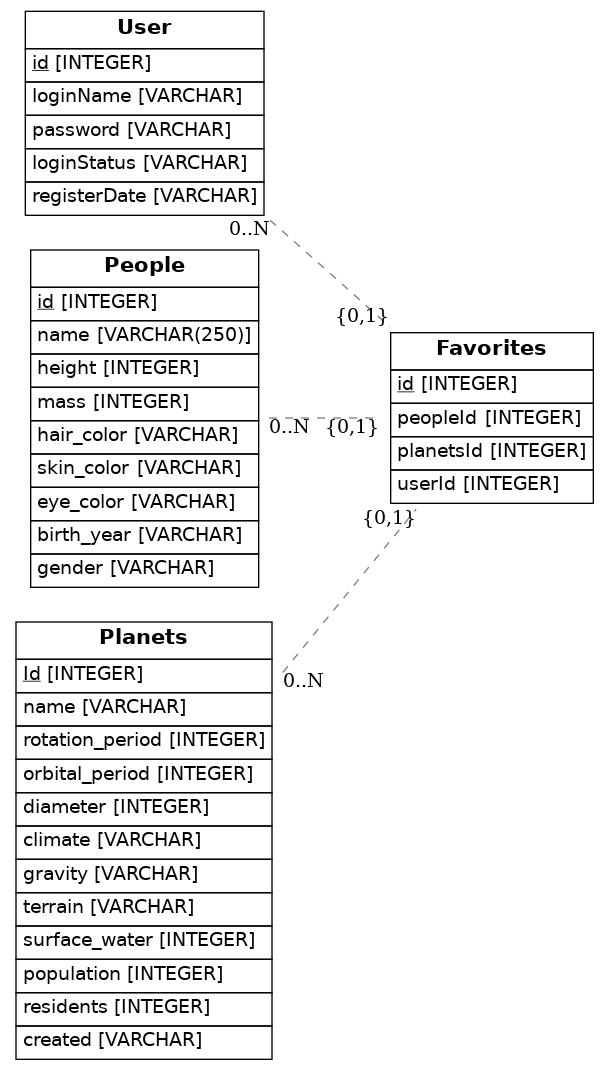
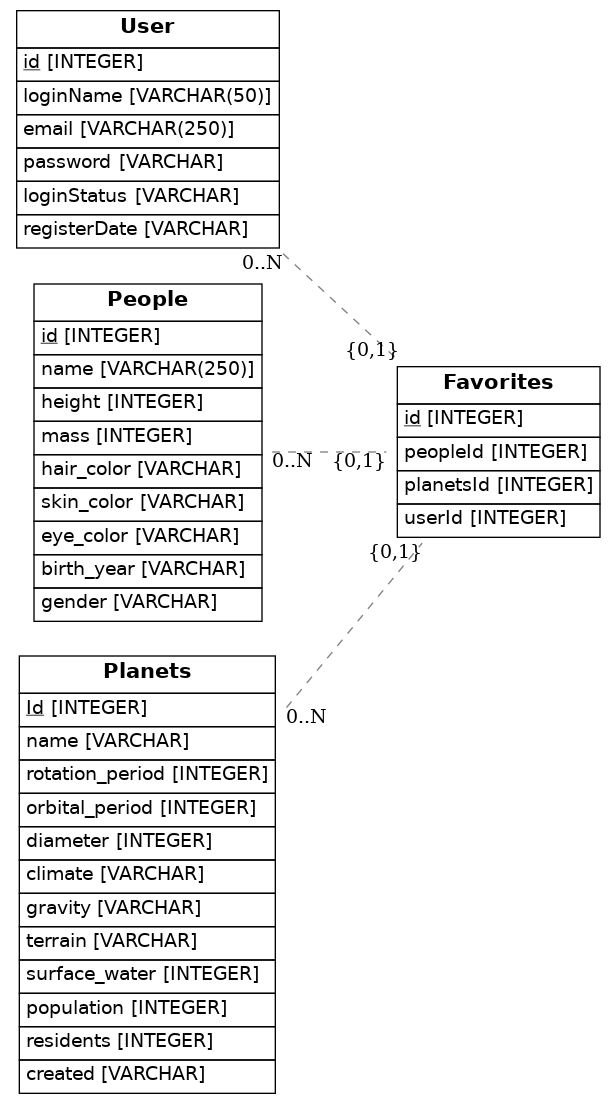
comments

Changed region(s): [[0.0, 0.0, 0.9984, 1.0]]

diff --git a/src/models_Ivan_Idea.py b/src/models_Ivan_Idea.py
@@ -1,0 +1,151 @@
+#*******************************************************************************#
+# Fecha Creación:  24 Marzo 2021.                                               #
+# Autor:           Iván Fonseca Castro                                          #
+#                                                                               #
+# Descripción:     Modelo para las entidades que componen el Proyecto del       #
+#                  Star Wars Blog                                               #
+#*******************************************************************************#
+
+import os
+import sys
+import enum
+from sqlalchemy import Column, ForeignKey, Integer, String, Float, Date, Enum
+from sqlalchemy.ext.declarative import declarative_base
+from sqlalchemy.orm import relationship
+from sqlalchemy import create_engine
+from eralchemy import render_er
+
+Base = declarative_base()
+
+# Definición de Tipo de Dato Personalizado para identificar las entidades principales
+class EntityTypeEnum(enum.Enum):
+    person = 1
+    planet = 2
+    vehicle = 3
+
+# INICIO - Definición de Tablas para Cátalogos
+# [hair_color_cat] : Esta entidad permitirá almacenar un Cátalogo de Color de Pelo
+class HairColorCat(Base):
+    __tablename__ = 'hair_color_cat'
+    id = Column(Integer, primary_key=True)
+    name = Column(String(20), nullable=False)
+
+# [skin_color_cat] : Esta entidad permitirá almacenar un Cátalogo de Color de Piel
+class SkinColorCat(Base):
+    __tablename__ = 'skin_color_cat'
+    id = Column(Integer, primary_key=True)
+    name = Column(String(20), nullable=False)
+
+# [eye_color_cat] : Esta entidad permitirá almacenar un Cátalogo de Color de Ojos
+class EyeColorCat(Base):
+    __tablename__ = 'eye_color_cat'
+    id = Column(Integer, primary_key=True)
+    name = Column(String(20), nullable=False)
+
+# [gender_cat] : Esta entidad permitirá almacenar un Cátalogo de Generos
+class GenderCat(Base):
+    __tablename__ = 'gender_cat'
+    id = Column(Integer, primary_key=True)
+    name = Column(String(20), nullable=False)
+
+# [climate_cat] : Esta entidad permitirá almacenar un Cátalogo de Climas
+class ClimateCat(Base):
+    __tablename__ = 'climate_cat'
+    id = Column(Integer, primary_key=True)
+    name = Column(String(20), nullable=False)
+
+# [terrain_cat] : Esta entidad permitirá almacenar un Cátalogo de Terrenos
+class TerrainCat(Base):
+    __tablename__ = 'terrain_cat'
+    id = Column(Integer, primary_key=True)
+    name = Column(String(20), nullable=False)
+
+# [vehicle_class_cat] : Esta entidad permitirá almacenar un Cátalogo de Clases de Vehiculos
+class VehicleClassCat(Base):
+    __tablename__ = 'vehicle_class_cat'
+    id = Column(Integer, primary_key=True)
+    name = Column(String(100), nullable=False)
+# FIN - Definición de Tablas para Cátalogos
+
+# Definición de Entidades Principales
+# [user] : Esta entidad permitirá almacenar los usuarios.
+class User(Base):
+    __tablename__ = 'user'
+    id = Column(Integer, primary_key=True)
+    name = Column(String(100), nullable=False)
+    first_surname = Column(String(100), nullable=False)
+    second_surname = Column(String(100))
+    email = Column(String(250), unique=True)
+    user_name = Column(String(50), unique=True)
+    password = Column(String(50))
+    user_image = Column(String(2000))
+    gender_cat_id = Column(Integer, ForeignKey('gender_cat.id'))
+    gender_cat = relationship(GenderCat)
+
+# [people] : Esta entidad permitirá almacenar los personas o personajes.
+class People(Base):
+    __tablename__ = 'people'
+    id = Column(Integer, primary_key=True)
+    name = Column(String(250), nullable=False)
+    birth_year = Column(Date)
+    height = Column(Integer)
+    mass = Column(Integer)
+    people_image = Column(String(2000))
+    hair_color_cat_id = Column(Integer, ForeignKey('hair_color_cat.id'))
+    hair_color_cat = relationship(HairColorCat)
+    skin_color_cat_id = Column(Integer, ForeignKey('skin_color_cat.id'))
+    skin_color_cat = relationship(SkinColorCat)
+    eye_color_cat_id = Column(Integer, ForeignKey('eye_color_cat.id'))
+    eye_color_cat = relationship(EyeColorCat)
+    gender_cat_id = Column(Integer, ForeignKey('gender_cat.id'))
+    gender_cat = relationship(GenderCat)
+
+# [planet] : Esta entidad permitirá almacenar los planetas.
+class Planet(Base):
+    __tablename__ = 'planet'
+    id = Column(Integer, primary_key=True)
+    name = Column(String(250), nullable=False)
+    rotation_period = Column(Integer)
+    orbital_period = Column(Integer) 
+    diameter = Column(Integer)
+    gravity = Column(String(50))
+    surface_water = Column(Integer)
+    population = Column(Integer)
+    planet_image = Column(String(2000))
+    climate_cat_id = Column(Integer, ForeignKey('climate_cat.id'))
+    climate_cat = relationship(ClimateCat)
+    terrain_cat_id = Column(Integer, ForeignKey('terrain_cat.id'))
+    terrain_cat = relationship(TerrainCat)
+
+# [vehicle] : Esta entidad permitirá almacenar los personas o personajes.
+class Vehicle(Base):
+    __tablename__ = 'vehicle'
+    id = Column(Integer, primary_key=True)
+    name = Column(String(250), nullable=False)
+    model = Column(String(100))
+    manufacturer = Column(String(100)) 
+    cost_in_credits = Column(Integer)
+    length = Column(Float)
+    max_atmosphering_speed = Column(Integer)
+    crew = Column(Integer)
+    passengers = Column(Integer)
+    cargo_capacity = Column(Integer)
+    consumables = Column(String(100))
+    vehicle_image = Column(String(2000))
+    vehicle_class_cat_id = Column(Integer, ForeignKey('vehicle_class_cat.id'))
+    vehicle_class_cat = relationship(VehicleClassCat)
+
+# [favorite] : Esta entidad permitirá almacenar los favoritos
+class Favorite(Base):
+    __tablename__ = 'favorite'
+    id = Column(Integer, primary_key=True)
+    user_id = Column(Integer, ForeignKey('user.id'))
+    user = relationship(User)
+    favorite_id = Column(Integer, nullable=False)
+    favorite_type = Column(Enum(EntityTypeEnum), nullable=False)
+
+    def to_dict(self):
+        return {}
+
+## Draw from SQLAlchemy base
+render_er(Base, 'diagram.png')

diff --git a/src/models.py b/src/models.py
@@ -12,7 +12,8 @@ Base = declarative_base()
 class User(Base):
     __tablename__ = 'User'
     id = Column(Integer, primary_key=True)
-    loginName = Column(String, nullable=False)
+    loginName = Column(String(50), unique=True)
+    email = Column(String(250), unique=True)
     password = Column(String, nullable=False)
     loginStatus = Column(String, nullable=False)
     registerDate = Column(String, nullable=False)
@@ -64,5 +65,3 @@ render_er(Base, 'diagram.png')
    ##  pipenv shell
     ## pipenv install
    ##  python src/models.py
-
-
